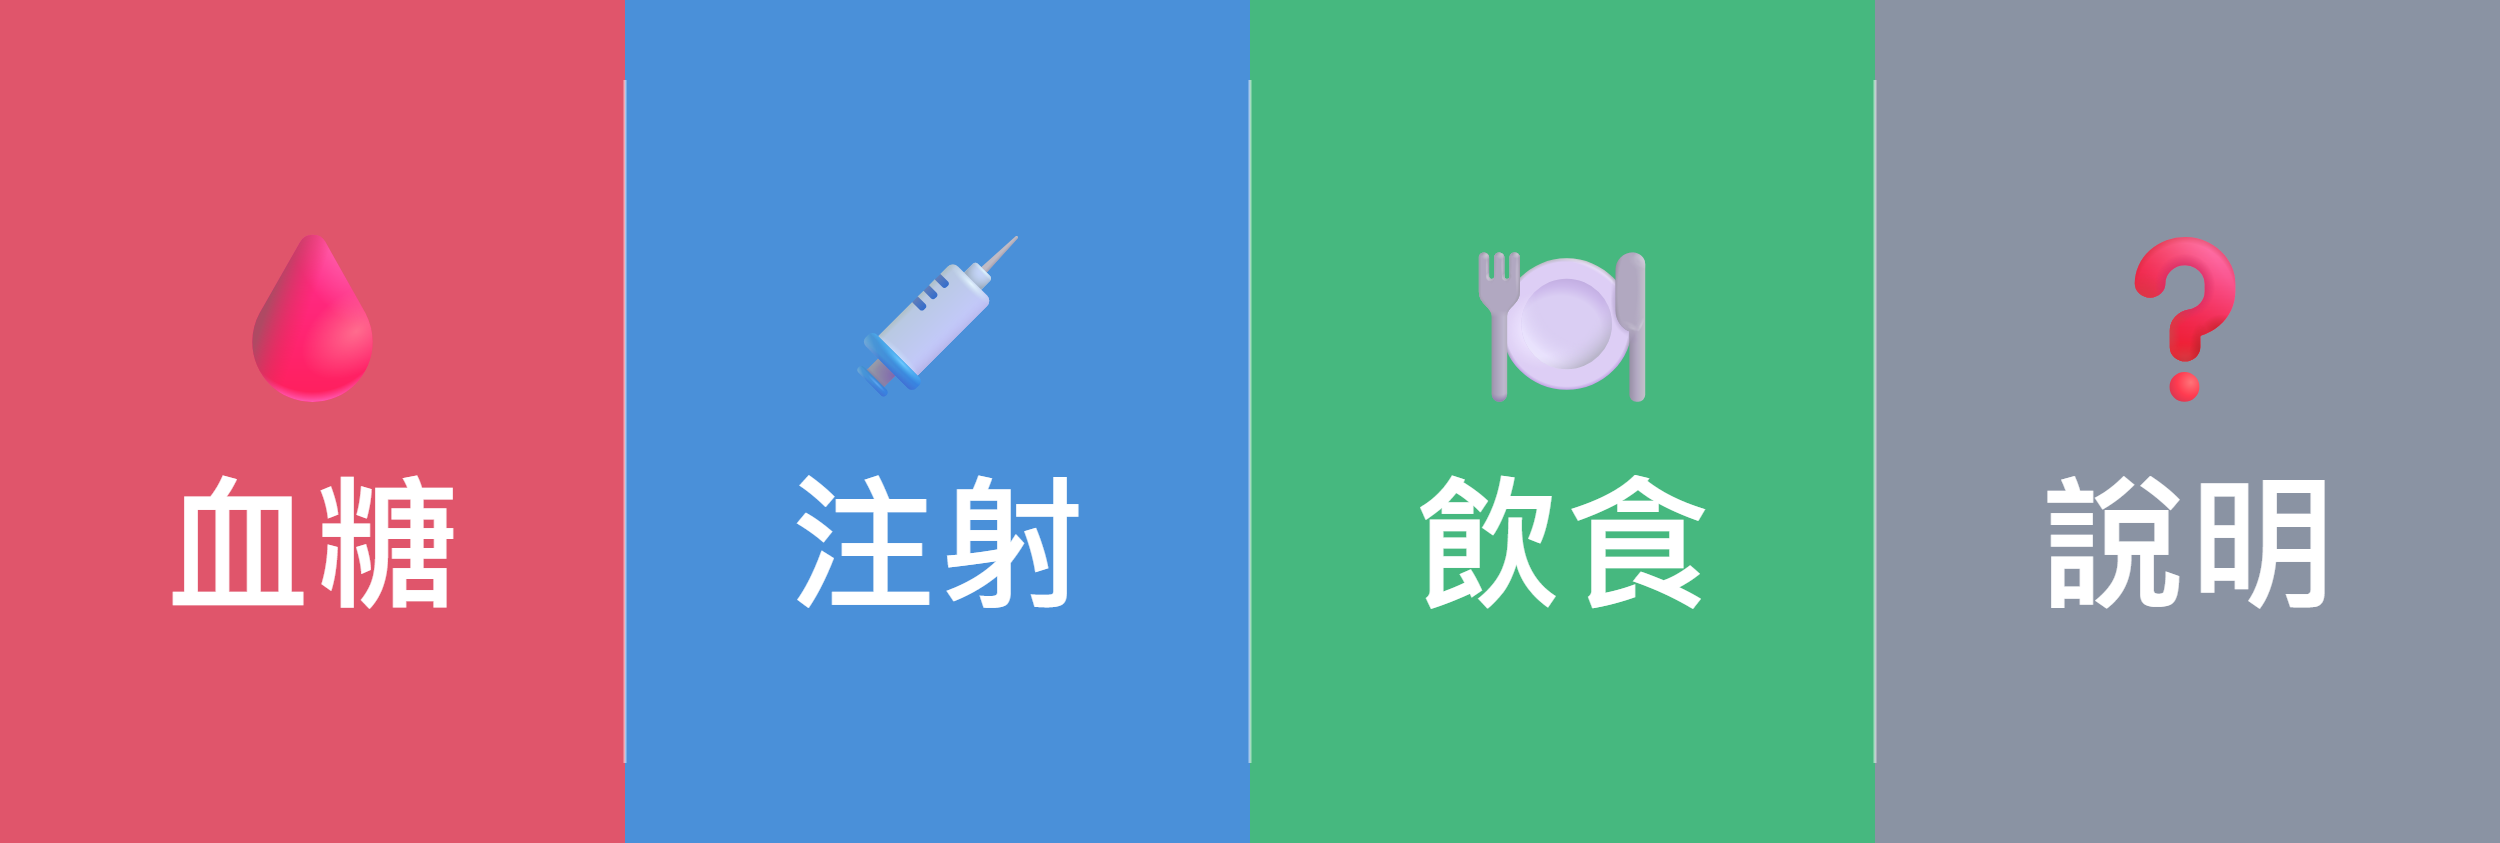
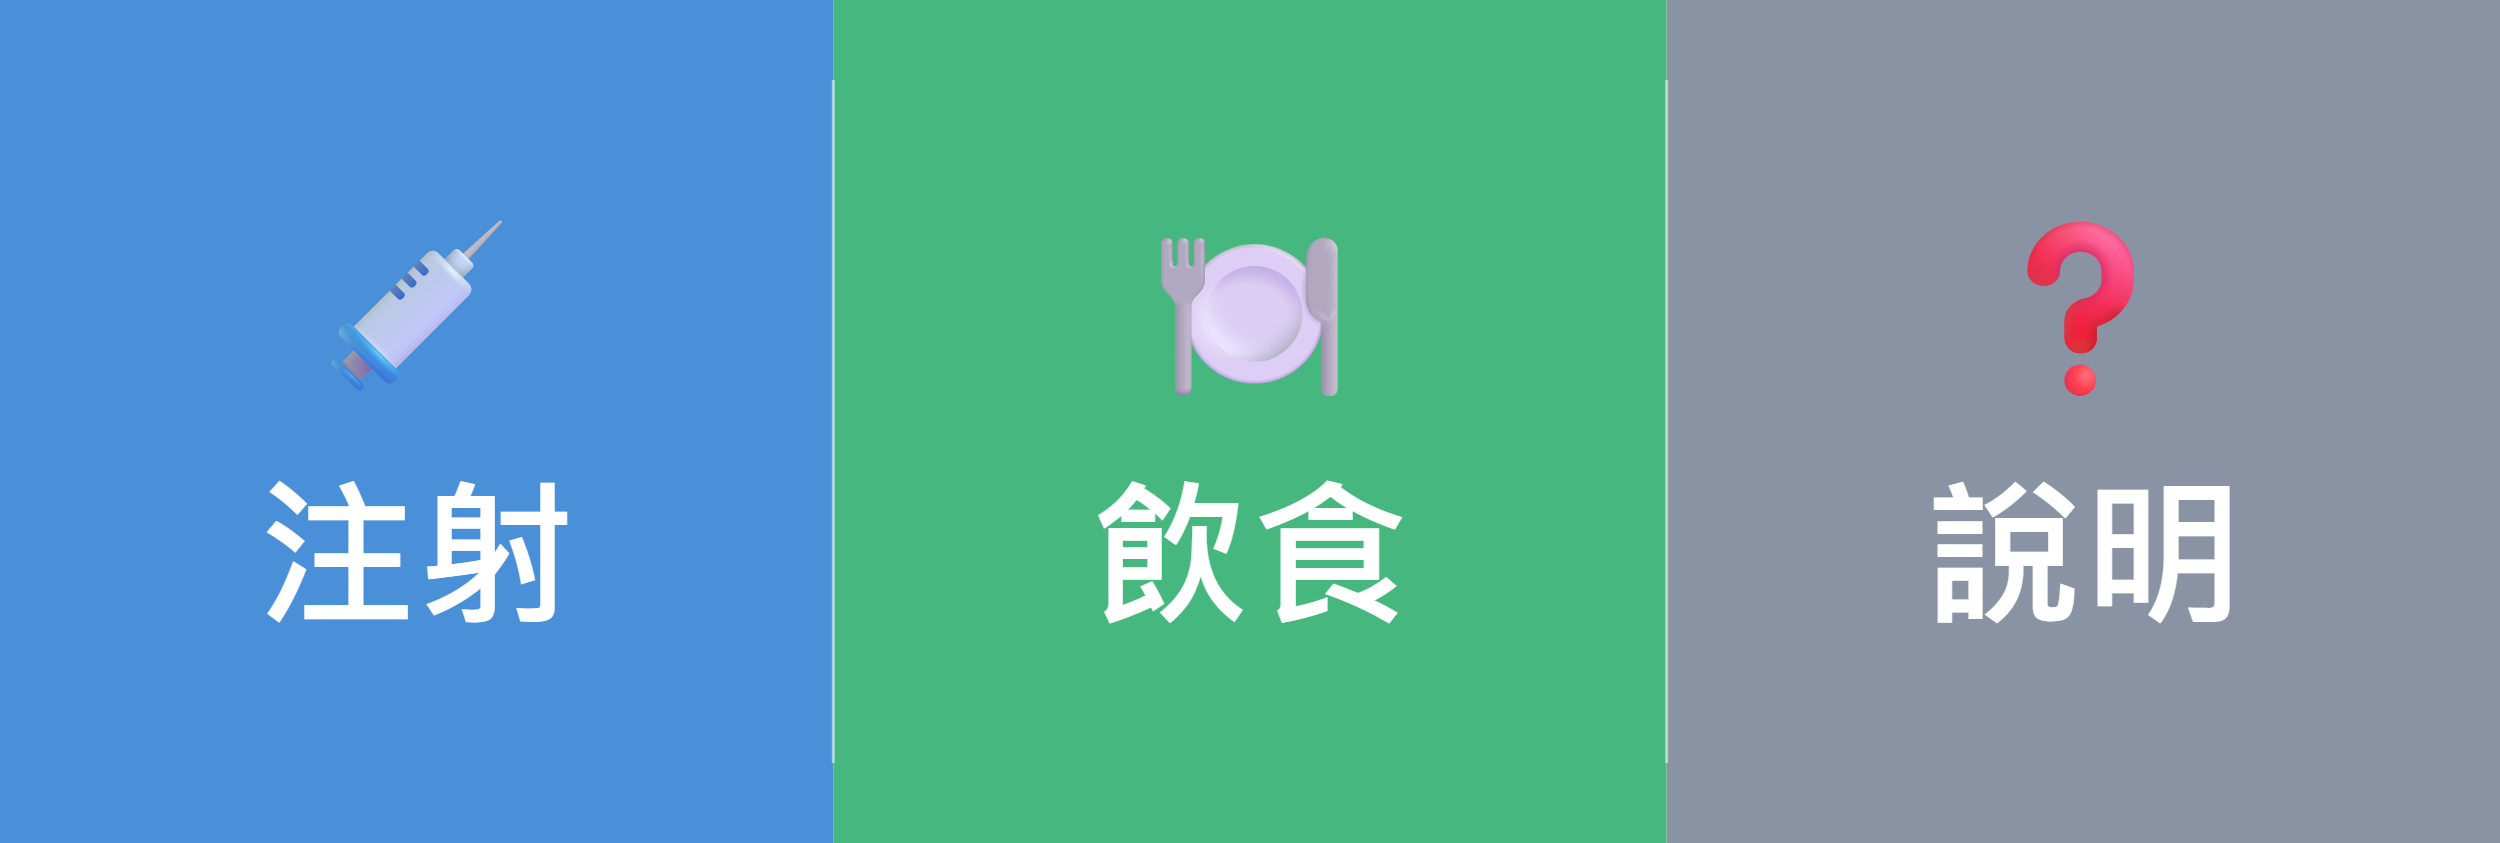
feat: LINE Bot 加入時間選擇、劑量改打字、移除血糖記錄
1. 時間選擇：注射/飲食記錄前顯示時間卡片，預設「現在」，
   可用 LINE datetimepicker 改為實際發生時間（台北時區）
2. 劑量改為打字輸入（移除 2/4/6/8/10/12 按鈕格），可輸入
   含半單位如 7.5
3. 移除血糖記錄功能（血糖應由 LibreLink 自動同步，不允許
   手動輸入）：移除選單/Rich Menu 面板/解析器/確認卡
   - Rich Menu 改 3 欄（注射/飲食/說明），需重新註冊
   - 確認卡片顯示記錄時間
   - 前端設定卡片同步更新說明

diff --git a/server/libre-proxy.js b/server/libre-proxy.js
@@ -594,19 +594,18 @@ const LINE_CHANNEL_ACCESS_TOKEN = process.env.LINE_CHANNEL_ACCESS_TOKEN || '';
 const LINE_API = 'https://api.line.me/v2/bot';
 const LINE_API_DATA = 'https://api-data.line.me/v2/bot'; // image upload uses the data domain
 
-// Rich Menu definition — 4 equal columns (each 625×843) tapping into the guided
-// flows via postback. The image (server/assets/line-richmenu.png) is registered
-// by POST /api/line/setup-richmenu.
+// Rich Menu definition — 3 columns tapping into the guided flows via postback
+// (血糖由 LibreLink 自動同步，不在此記錄). The image
+// (server/assets/line-richmenu.png) is registered by POST /api/line/setup-richmenu.
 const RICH_MENU_DEF = {
   size: { width: 2500, height: 843 },
   selected: true,
   name: 'DiaGuide Menu',
   chatBarText: '開啟記錄選單',
   areas: [
-    { bounds: { x: 0,    y: 0, width: 625, height: 843 }, action: { type: 'postback', data: 'action=menu_glucose', displayText: '🩸 記錄血糖' } },
-    { bounds: { x: 625,  y: 0, width: 625, height: 843 }, action: { type: 'postback', data: 'action=menu_insulin', displayText: '💉 記錄注射' } },
-    { bounds: { x: 1250, y: 0, width: 625, height: 843 }, action: { type: 'postback', data: 'action=menu_meal',    displayText: '🍽 記錄飲食' } },
-    { bounds: { x: 1875, y: 0, width: 625, height: 843 }, action: { type: 'postback', data: 'action=menu_help',    displayText: '❓ 說明' } },
+    { bounds: { x: 0,    y: 0, width: 833, height: 843 }, action: { type: 'postback', data: 'action=menu_insulin', displayText: '💉 記錄注射' } },
+    { bounds: { x: 833,  y: 0, width: 834, height: 843 }, action: { type: 'postback', data: 'action=menu_meal',    displayText: '🍽 記錄飲食' } },
+    { bounds: { x: 1667, y: 0, width: 833, height: 843 }, action: { type: 'postback', data: 'action=menu_help',    displayText: '❓ 說明' } },
   ],
 };
 
@@ -714,7 +713,31 @@ function flexBtn(label, data, color, style = 'primary') {
     action: { type: 'postback', label, data, displayText: label } };
 }
 
-// Main menu card — 3 record actions.
+// ── Time helpers (Taiwan timezone) ──
+const TZ = 'Asia/Taipei';
+// Format an ISO/epoch as Taipei "MM/DD HH:mm".
+function fmtTime(iso) {
+  return new Date(iso ?? Date.now()).toLocaleString('zh-TW', {
+    month: '2-digit', day: '2-digit', hour: '2-digit', minute: '2-digit', hour12: false, timeZone: TZ,
+  });
+}
+// Current Taipei wall-clock as "yyyy-MM-ddTHH:mm" for datetimepicker initial/max.
+function nowPickerStr() {
+  const parts = new Intl.DateTimeFormat('en-CA', {
+    timeZone: TZ, year: 'numeric', month: '2-digit', day: '2-digit', hour: '2-digit', minute: '2-digit', hour12: false,
+  }).formatToParts(new Date());
+  const g = t => parts.find(p => p.type === t).value;
+  let hour = g('hour'); if (hour === '24') hour = '00'; // some engines emit 24 at midnight
+  return `${g('year')}-${g('month')}-${g('day')}T${hour}:${g('minute')}`;
+}
+// datetimepicker value "yyyy-MM-ddTHH:mm" (Taipei wall time) → UTC ISO for storage.
+function pickerToISO(s) {
+  if (!s) return new Date().toISOString();
+  const d = new Date(`${s}:00+08:00`);
+  return isNaN(d.getTime()) ? new Date().toISOString() : d.toISOString();
+}
+
+// Main menu card — record actions (血糖由 LibreLink 自動同步，不在此記錄).
 function menuBubble() {
   return {
     type: 'bubble',
@@ -722,7 +745,6 @@ function menuBubble() {
       { type: 'text', text: '📋 DiaGuide 記錄選單', weight: 'bold', size: 'lg', align: 'center' },
       { type: 'text', text: '點按鈕快速記錄，免記指令', size: 'sm', color: '#999999', align: 'center' },
       { type: 'separator', margin: 'md' },
-      flexBtn('🩸 記錄血糖', 'action=menu_glucose', '#e0556b'),
       flexBtn('💉 記錄注射', 'action=menu_insulin', '#4a90d9'),
       flexBtn('🍽 記錄飲食', 'action=menu_meal', '#46b87f'),
     ]},
@@ -738,26 +760,6 @@ function insulinTypeBubble() {
       flexBtn('⚡ 速效', 'action=ins_type&type=rapid', '#4a90d9'),
       flexBtn('💧 短效', 'action=ins_type&type=short', '#5b9bd5'),
       flexBtn('🌙 長效', 'action=ins_type&type=long', '#7f9cc4'),
-      flexBtn('✖ 取消', 'action=cancel', '#bbbbbb', 'secondary'),
-    ]},
-  };
-}
-
-// Insulin units quick-pick card (common doses + cancel). Type is embedded in the
-// button data so the tap records directly without extra state lookups.
-function insulinUnitsBubble(type) {
-  const units = [2, 4, 6, 8, 10, 12];
-  const rows = [];
-  for (let i = 0; i < units.length; i += 3) {
-    rows.push({ type: 'box', layout: 'horizontal', spacing: 'sm',
-      contents: units.slice(i, i + 3).map(u => flexBtn(`${u} U`, `action=ins_set&type=${type}&units=${u}`, '#4a90d9')) });
-  }
-  return {
-    type: 'bubble',
-    body: { type: 'box', layout: 'vertical', spacing: 'sm', contents: [
-      { type: 'text', text: `💉 ${INSULIN_LABEL[type] || ''} — 選擇單位數`, weight: 'bold', size: 'md', align: 'center' },
-      ...rows,
-      { type: 'text', text: '或直接輸入數字（例如 8）', size: 'xs', color: '#999999', align: 'center', margin: 'sm' },
       flexBtn('✖ 取消', 'action=cancel', '#bbbbbb', 'secondary'),
     ]},
   };
@@ -782,6 +784,27 @@ function mealTypeBubble() {
   };
 }
 
+// Time chooser — shown right before saving. Defaults to "now"; a datetimepicker
+// lets the user pick the actual time. saveData/timeData are the postback actions.
+function timeChooserBubble(summary, saveData, timeData) {
+  const now = nowPickerStr();
+  return {
+    type: 'bubble',
+    body: { type: 'box', layout: 'vertical', spacing: 'sm', contents: [
+      { type: 'text', text: summary, weight: 'bold', size: 'md', wrap: true },
+      { type: 'text', text: `⏰ 時間：現在（${fmtTime()}）`, size: 'sm', color: '#46b87f', wrap: true },
+      { type: 'text', text: '預設為現在，可改成實際發生的時間', size: 'xs', color: '#999999', wrap: true },
+    ]},
+    footer: { type: 'box', layout: 'vertical', spacing: 'sm', contents: [
+      { type: 'button', style: 'primary', color: '#46b87f', height: 'sm',
+        action: { type: 'postback', label: '✅ 確認（用現在時間）', data: saveData, displayText: '確認記錄' } },
+      { type: 'button', style: 'secondary', height: 'sm',
+        action: { type: 'datetimepicker', label: '⏰ 改其他時間', data: timeData, mode: 'datetime', initial: now, max: now } },
+      flexBtn('✖ 取消', 'action=cancel', '#bbbbbb', 'secondary'),
+    ]},
+  };
+}
+
 // A "繼續記錄" footer that reopens the menu — appended to confirmation cards.
 function continueFooter() {
   return { type: 'box', layout: 'vertical', contents: [
@@ -789,26 +812,7 @@ function continueFooter() {
   ]};
 }
 
-function glucoseConfirmBubble(value) {
-  const st = value < 70 ? { t: '低血糖 ⚠️ 請補充糖分', c: '#e0556b' }
-    : value > 180 ? { t: '偏高 ⚠️ 注意觀察', c: '#f5a623' }
-    : { t: '正常範圍 ✅', c: '#46b87f' };
-  return {
-    type: 'bubble',
-    body: { type: 'box', layout: 'vertical', spacing: 'sm', contents: [
-      { type: 'text', text: '✅ 已記錄血糖', weight: 'bold', size: 'sm', color: '#46b87f' },
-      { type: 'box', layout: 'baseline', spacing: 'sm', contents: [
-        { type: 'text', text: `${value}`, size: 'xxl', weight: 'bold', color: st.c, flex: 0 },
-        { type: 'text', text: 'mg/dL', size: 'sm', color: '#999999' },
-      ]},
-      { type: 'text', text: st.t, size: 'sm', color: st.c },
-      { type: 'text', text: `⏰ ${nowTime()}`, size: 'xs', color: '#aaaaaa' },
-    ]},
-    footer: continueFooter(),
-  };
-}
-
-function insulinConfirmBubble(type, units) {
+function insulinConfirmBubble(type, units, ts) {
   return {
     type: 'bubble',
     body: { type: 'box', layout: 'vertical', spacing: 'sm', contents: [
@@ -817,18 +821,19 @@ function insulinConfirmBubble(type, units) {
         { type: 'text', text: `${INSULIN_LABEL[type] || ''}`, size: 'md', weight: 'bold', color: '#4a90d9', flex: 0 },
         { type: 'text', text: `${units} U`, size: 'xxl', weight: 'bold', color: '#4a90d9' },
       ]},
-      { type: 'text', text: `⏰ ${nowTime()}`, size: 'xs', color: '#aaaaaa' },
+      { type: 'text', text: `⏰ ${fmtTime(ts)}`, size: 'xs', color: '#aaaaaa' },
     ]},
     footer: continueFooter(),
   };
 }
 
-function mealConfirmBubble(type, foods) {
+function mealConfirmBubble(type, foods, ts) {
   return {
     type: 'bubble',
     body: { type: 'box', layout: 'vertical', spacing: 'sm', contents: [
       { type: 'text', text: `✅ 已記錄${MEAL_LABEL[type] || ''}`, weight: 'bold', size: 'sm', color: '#46b87f' },
       { type: 'text', text: `🍽 ${foods}`, size: 'md', wrap: true },
+      { type: 'text', text: `⏰ ${fmtTime(ts)}`, size: 'xs', color: '#aaaaaa' },
       { type: 'text', text: '💡 開啟 DiaGuide 可查看完整營養分析', size: 'xs', color: '#999999', wrap: true },
     ]},
     footer: continueFooter(),
@@ -846,13 +851,6 @@ function parseInsulinMsg(text) {
   const m = text.match(/^(速效|超速效|短效|普通|長效|基礎)\s+([\d.]+)\s*[Uu]/);
   if (!m) return null;
   return { insulinType: TYPE_MAP[m[1]], units: parseFloat(m[2]), timestamp: new Date().toISOString(), source: 'line' };
-}
-
-// Blood glucose: "血糖 120" / "血糖120" / "BG 120"
-function parseGlucoseMsg(text) {
-  const m = text.match(/^(?:血糖|BG|bg)\s*([\d.]+)/i);
-  if (!m) return null;
-  return { value: parseFloat(m[1]), unit: 'mg/dL', mealContext: 'other', timestamp: new Date().toISOString(), source: 'line' };
 }
 
 // Meal: "早餐 白飯一碗 雞蛋兩顆"
@@ -876,33 +874,23 @@ async function findUserByLineId(lineUserId) {
 
 const INSULIN_LABEL = { rapid: '速效', short: '短效', long: '長效' };
 const MEAL_LABEL = { breakfast: '早餐', lunch: '午餐', dinner: '晚餐', snack: '點心' };
-const nowTime = () => new Date().toLocaleTimeString('zh-TW', { hour: '2-digit', minute: '2-digit', hour12: false });
 
 // ── Record helpers — used by BOTH direct text commands AND the guided flow.
-// Each writes to Supabase and returns a confirmation string.
-async function recordInsulin(userRow, insulinType, units) {
+// `ts` (ISO string) defaults to now; the guided flow passes a user-picked time.
+async function recordInsulin(userRow, insulinType, units, ts) {
+  const timestamp = ts || new Date().toISOString();
   const { user_id, data } = userRow;
   const logs = Array.isArray(data.insulinLogs) ? data.insulinLogs : [];
-  logs.push({ insulinType, units, timestamp: new Date().toISOString(), source: 'line', id: `line-${Date.now()}` });
+  logs.push({ insulinType, units, timestamp, source: 'line', id: `line-${Date.now()}` });
   await updateUserData(user_id, d => ({ ...d, insulinLogs: logs }));
-  return `✅ 已記錄注射\n💉 ${INSULIN_LABEL[insulinType]} ${units} U\n⏰ ${nowTime()}`;
 }
 
-async function recordGlucose(userRow, value) {
-  const { user_id, data } = userRow;
-  const readings = Array.isArray(data.glucoseReadings) ? data.glucoseReadings : [];
-  readings.push({ value, unit: 'mg/dL', mealContext: 'other', timestamp: new Date().toISOString(), source: 'line', id: `line-${Date.now()}` });
-  await updateUserData(user_id, d => ({ ...d, glucoseReadings: readings }));
-  const flag = value < 70 ? '⚠️ 低血糖，請補充糖分！' : value > 180 ? '⚠️ 偏高，注意觀察' : '✅ 正常範圍';
-  return `✅ 已記錄血糖\n🩸 ${value} mg/dL\n${flag}`;
-}
-
-async function recordMeal(userRow, mealType, foods) {
+async function recordMeal(userRow, mealType, foods, ts) {
+  const timestamp = ts || new Date().toISOString();
   const { user_id, data } = userRow;
   const meals = Array.isArray(data.meals) ? data.meals : [];
-  meals.push({ mealType, foods, timestamp: new Date().toISOString(), source: 'line', carbs: 0, confidence: 'undetermined', id: `line-${Date.now()}` });
+  meals.push({ mealType, foods, timestamp, source: 'line', carbs: 0, confidence: 'undetermined', id: `line-${Date.now()}` });
   await updateUserData(user_id, d => ({ ...d, meals }));
-  return `✅ 已記錄${MEAL_LABEL[mealType]}\n🍽 ${foods}\n\n💡 開啟 DiaGuide 可查看完整營養分析`;
 }
 
 app.post('/linebot/webhook', async (req, res) => {
@@ -923,9 +911,10 @@ app.post('/linebot/webhook', async (req, res) => {
     const replyToken = event.replyToken;
     if (!lineUserId || !replyToken) continue;
 
-    // Normalize input: postback (button tap) carries `data`; text carries words.
-    let postbackData = null, text = null;
-    if (event.type === 'postback') postbackData = event.postback?.data || '';
+    // Normalize input: postback (button tap) carries `data` (+ params for the
+    // datetimepicker); text carries words.
+    let postbackData = null, text = null, pbParams = {};
+    if (event.type === 'postback') { postbackData = event.postback?.data || ''; pbParams = event.postback?.params || {}; }
     else if (event.type === 'message' && event.message?.type === 'text') text = (event.message.text || '').trim();
     else continue;
     const action = postbackData ? new URLSearchParams(postbackData).get('action') : null;
@@ -964,12 +953,7 @@ app.post('/linebot/webhook', async (req, res) => {
       continue;
     }
 
-    // ── 選單入口：開始一段引導流程 ──
-    if (action === 'menu_glucose') {
-      setConv(lineUserId, { flow: 'glucose', step: 'value' });
-      await lineReplyQuick(replyToken, '🩸 請輸入血糖數值（mg/dL）\n例如：120', [CANCEL_BTN]);
-      continue;
-    }
+    // ── 選單入口：開始一段引導流程（血糖由 LibreLink 同步，不在此記錄）──
     if (action === 'menu_insulin') {
       setConv(lineUserId, { flow: 'insulin', step: 'type' });
       await lineReplyFlex(replyToken, '請選擇胰島素類型', insulinTypeBubble());
@@ -981,26 +965,47 @@ app.post('/linebot/webhook', async (req, res) => {
       continue;
     }
 
-    // ── 流程中途選擇（按鈕）──
-    // 注射：選完類型 → 顯示單位快選卡片
+    // ── 注射：選完類型 → 請使用者輸入單位數 ──
     if (action === 'ins_type' && pbType) {
       setConv(lineUserId, { flow: 'insulin', step: 'units', data: { type: pbType } });
-      await lineReplyFlex(replyToken, `${INSULIN_LABEL[pbType] || ''} 選擇單位數`, insulinUnitsBubble(pbType));
+      await lineReplyQuick(replyToken, `💉 ${INSULIN_LABEL[pbType] || ''}\n請輸入單位數（例如 8 或 7.5）`, [CANCEL_BTN]);
       continue;
     }
-    // 注射：一鍵選單位 → 直接記錄
-    if (action === 'ins_set' && pbType) {
-      const units = parseFloat(new URLSearchParams(postbackData).get('units'));
-      if (!isNaN(units) && units > 0) {
-        clearConv(lineUserId);
-        await recordInsulin(userRow, pbType, units);
-        await lineReplyFlex(replyToken, `已記錄注射 ${INSULIN_LABEL[pbType]} ${units}U`, insulinConfirmBubble(pbType, units));
-      }
-      continue;
-    }
+    // ── 飲食：選完餐別 → 請使用者輸入內容 ──
     if (action === 'meal_type' && pbType) {
       setConv(lineUserId, { flow: 'meal', step: 'foods', data: { type: pbType } });
       await lineReplyQuick(replyToken, `${MEAL_LABEL[pbType] || ''}\n請輸入吃了什麼\n例如：白飯一碗 雞蛋兩顆`, [CANCEL_BTN]);
+      continue;
+    }
+
+    // ── 確認時間：用「現在」存檔 ──
+    if (action === 'ins_save' || action === 'meal_save') {
+      const conv = getConv(lineUserId);
+      if (!conv || conv.step !== 'time') { await lineReplyFlex(replyToken, '流程已逾時，請重新開始', menuBubble()); continue; }
+      clearConv(lineUserId);
+      const ts = new Date().toISOString();
+      if (action === 'ins_save') {
+        await recordInsulin(userRow, conv.data.type, conv.data.units, ts);
+        await lineReplyFlex(replyToken, '已記錄注射', insulinConfirmBubble(conv.data.type, conv.data.units, ts));
+      } else {
+        await recordMeal(userRow, conv.data.type, conv.data.foods, ts);
+        await lineReplyFlex(replyToken, '已記錄飲食', mealConfirmBubble(conv.data.type, conv.data.foods, ts));
+      }
+      continue;
+    }
+    // ── 確認時間：使用者用 datetimepicker 選了其他時間 ──
+    if (action === 'ins_time' || action === 'meal_time') {
+      const conv = getConv(lineUserId);
+      if (!conv || conv.step !== 'time') { await lineReplyFlex(replyToken, '流程已逾時，請重新開始', menuBubble()); continue; }
+      clearConv(lineUserId);
+      const ts = pickerToISO(pbParams.datetime);
+      if (action === 'ins_time') {
+        await recordInsulin(userRow, conv.data.type, conv.data.units, ts);
+        await lineReplyFlex(replyToken, '已記錄注射', insulinConfirmBubble(conv.data.type, conv.data.units, ts));
+      } else {
+        await recordMeal(userRow, conv.data.type, conv.data.foods, ts);
+        await lineReplyFlex(replyToken, '已記錄飲食', mealConfirmBubble(conv.data.type, conv.data.foods, ts));
+      }
       continue;
     }
 
@@ -1008,39 +1013,35 @@ app.post('/linebot/webhook', async (req, res) => {
     if (text != null) {
       const conv = getConv(lineUserId);
 
-      // 流程中：填入正在等待的欄位
+      // 流程中：填入正在等待的欄位，填完進入「選時間」步驟
       if (conv) {
-        if (conv.flow === 'glucose' && conv.step === 'value') {
-          const v = parseFloat(text.replace(/[^\d.]/g, ''));
-          if (isNaN(v) || v <= 0) { await lineReplyQuick(replyToken, '請輸入數字，例如 120', [CANCEL_BTN]); continue; }
-          clearConv(lineUserId);
-          await recordGlucose(userRow, v);
-          await lineReplyFlex(replyToken, `已記錄血糖 ${v} mg/dL`, glucoseConfirmBubble(v));
-          continue;
-        }
         if (conv.flow === 'insulin' && conv.step === 'units') {
           const v = parseFloat(text.replace(/[^\d.]/g, ''));
           if (isNaN(v) || v <= 0) { await lineReplyQuick(replyToken, '請輸入單位數，例如 8', [CANCEL_BTN]); continue; }
-          clearConv(lineUserId);
-          await recordInsulin(userRow, conv.data.type, v);
-          await lineReplyFlex(replyToken, `已記錄注射 ${INSULIN_LABEL[conv.data.type]} ${v}U`, insulinConfirmBubble(conv.data.type, v));
+          setConv(lineUserId, { flow: 'insulin', step: 'time', data: { type: conv.data.type, units: v } });
+          await lineReplyFlex(replyToken, '選擇時間',
+            timeChooserBubble(`💉 ${INSULIN_LABEL[conv.data.type]} ${v} U`, 'action=ins_save', 'action=ins_time'));
           continue;
         }
         if (conv.flow === 'meal' && conv.step === 'foods') {
-          clearConv(lineUserId);
-          await recordMeal(userRow, conv.data.type, text.trim());
-          await lineReplyFlex(replyToken, `已記錄${MEAL_LABEL[conv.data.type]}`, mealConfirmBubble(conv.data.type, text.trim()));
+          const foods = text.trim();
+          setConv(lineUserId, { flow: 'meal', step: 'time', data: { type: conv.data.type, foods } });
+          await lineReplyFlex(replyToken, '選擇時間',
+            timeChooserBubble(`🍽 ${MEAL_LABEL[conv.data.type]}：${foods}`, 'action=meal_save', 'action=meal_time'));
+          continue;
+        }
+        // step === 'time' 但使用者打字而非用按鈕 → 提醒用卡片按鈕
+        if (conv.step === 'time') {
+          await lineReply(replyToken, '請點上方卡片的「✅ 確認」或「⏰ 改其他時間」完成記錄。');
           continue;
         }
       }
 
-      // 無進行中流程：仍支援老手直接打指令
+      // 無進行中流程：仍支援老手直接打指令（用現在時間）
       const insulin = parseInsulinMsg(text);
-      if (insulin) { await recordInsulin(userRow, insulin.insulinType, insulin.units); await lineReplyFlex(replyToken, '已記錄注射', insulinConfirmBubble(insulin.insulinType, insulin.units)); continue; }
-      const glucose = parseGlucoseMsg(text);
-      if (glucose) { await recordGlucose(userRow, glucose.value); await lineReplyFlex(replyToken, '已記錄血糖', glucoseConfirmBubble(glucose.value)); continue; }
+      if (insulin) { const ts = new Date().toISOString(); await recordInsulin(userRow, insulin.insulinType, insulin.units, ts); await lineReplyFlex(replyToken, '已記錄注射', insulinConfirmBubble(insulin.insulinType, insulin.units, ts)); continue; }
       const meal = parseMealMsg(text);
-      if (meal) { await recordMeal(userRow, meal.mealType, meal.foods); await lineReplyFlex(replyToken, '已記錄飲食', mealConfirmBubble(meal.mealType, meal.foods)); continue; }
+      if (meal) { const ts = new Date().toISOString(); await recordMeal(userRow, meal.mealType, meal.foods, ts); await lineReplyFlex(replyToken, '已記錄飲食', mealConfirmBubble(meal.mealType, meal.foods, ts)); continue; }
 
       // 看不懂 → 顯示選單卡片
       await lineReplyFlex(replyToken, 'DiaGuide 記錄選單', menuBubble());

diff --git a/src/components/Settings.jsx b/src/components/Settings.jsx
@@ -96,9 +96,10 @@ function LineBindCard() {
           </div>
           <p className="hint" style={{ marginBottom: 12 }}>
             在 LINE 點聊天室下方的選單即可記錄，全程用點選的、免記指令：<br />
-            🩸 血糖　💉 注射　🍽 飲食<br />
+            💉 注射　🍽 飲食（可選擇記錄時間，預設現在）<br />
             也可直接打字快速記錄：<br />
-            「血糖 120」「速效 8U」「早餐 白飯一碗」
+            「速效 8U」「早餐 白飯一碗」<br />
+            <span style={{ color: '#888' }}>※ 血糖由 LibreLink 自動同步，不需手動記錄</span>
           </p>
           {msg && <div className="auth-notice">{msg}</div>}
           <button className="btn-danger" onClick={handleUnbind} disabled={busy}>